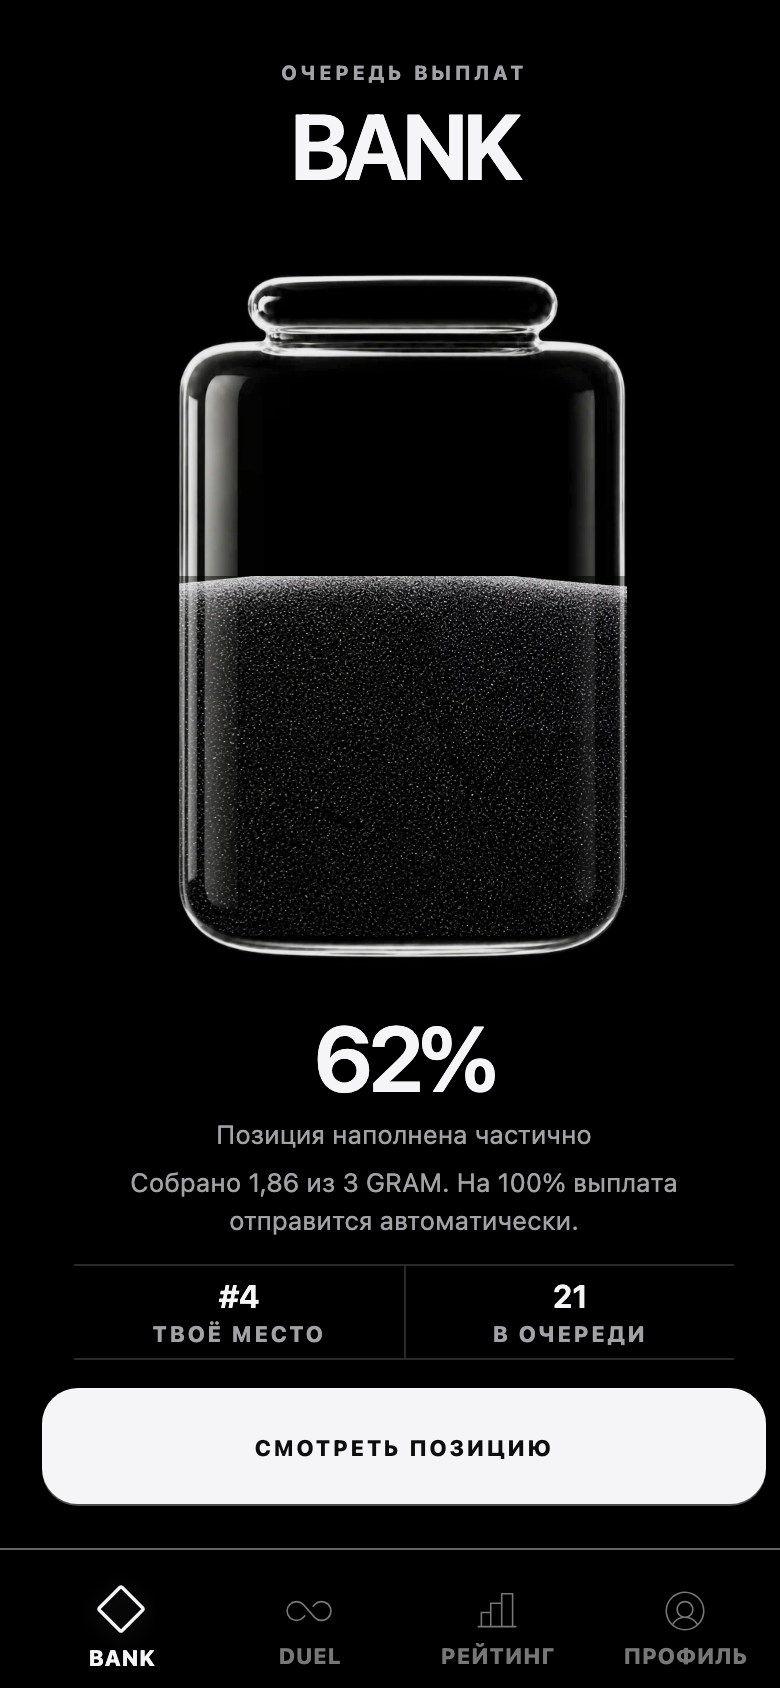
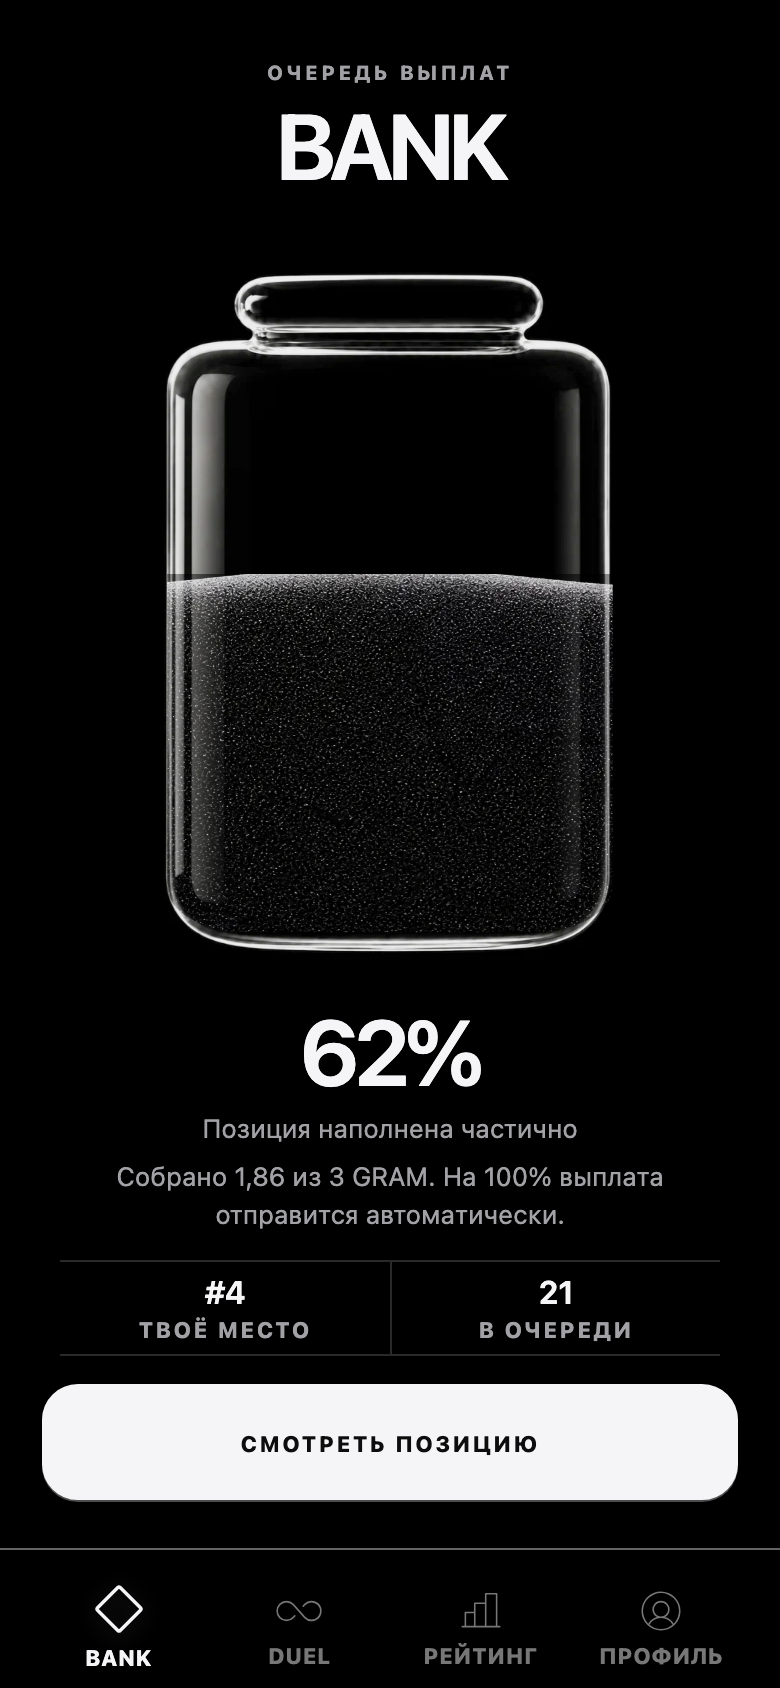
fix(bank): let the jar take the free space instead of pooling it under the button
The jar was a fixed fraction of the viewport — height: min(47dvh, 405px), flex
none — inside a flex column where nothing grew. So on a short screen the jar
shrank to a token while the leftover space collected as a void between the
button and the tab bar, and on a tall screen the 405px cap left 145px of nothing
below. Reported on a 379x603 window, where it looked exactly as odd as it was.

The jar now grows and shrinks with whatever the column has left, bounded at 168
and 520px. Measured on both BANK states across 320x568, 379x603, 430x839,
430x932 and 430x1180: the gap under the button is 24-30px everywhere, which is
just the screen's own bottom padding, and nothing scrolls.

The cap going from 405 to 520 also gives the vessel 459px of width back on a
430x932 phone, so recovering the whole jar in 117336b no longer costs its size
on the screen the design targets.

diff --git a/apps/web/src/styles.css b/apps/web/src/styles.css
@@ -501,8 +501,10 @@ summary:focus-visible .disclosure-indicator {
   position: relative;
   display: grid;
   width: min(calc(100% + 42px), 430px);
-  height: min(47dvh, 405px);
-  flex: 0 0 auto;
+  height: auto;
+  min-height: 168px;
+  max-height: 520px;
+  flex: 1 1 auto;
   margin: 7px 0 0;
   overflow: hidden;
   place-items: center;
